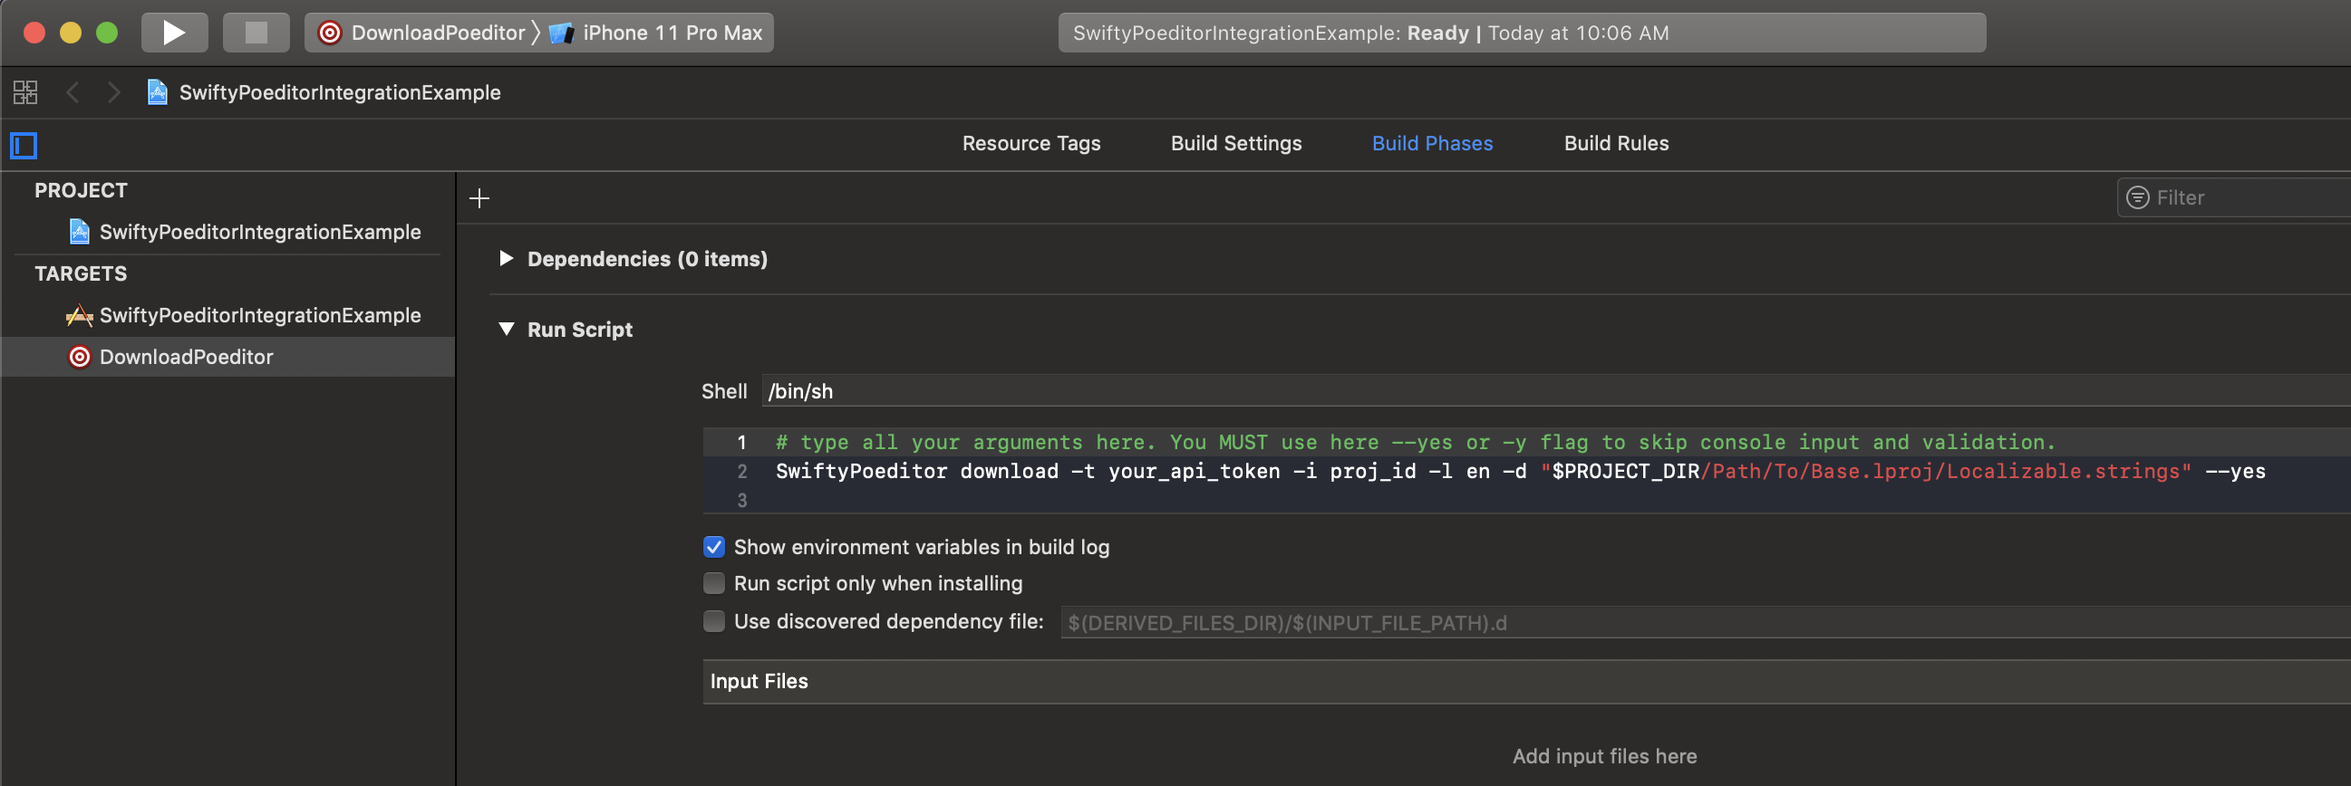
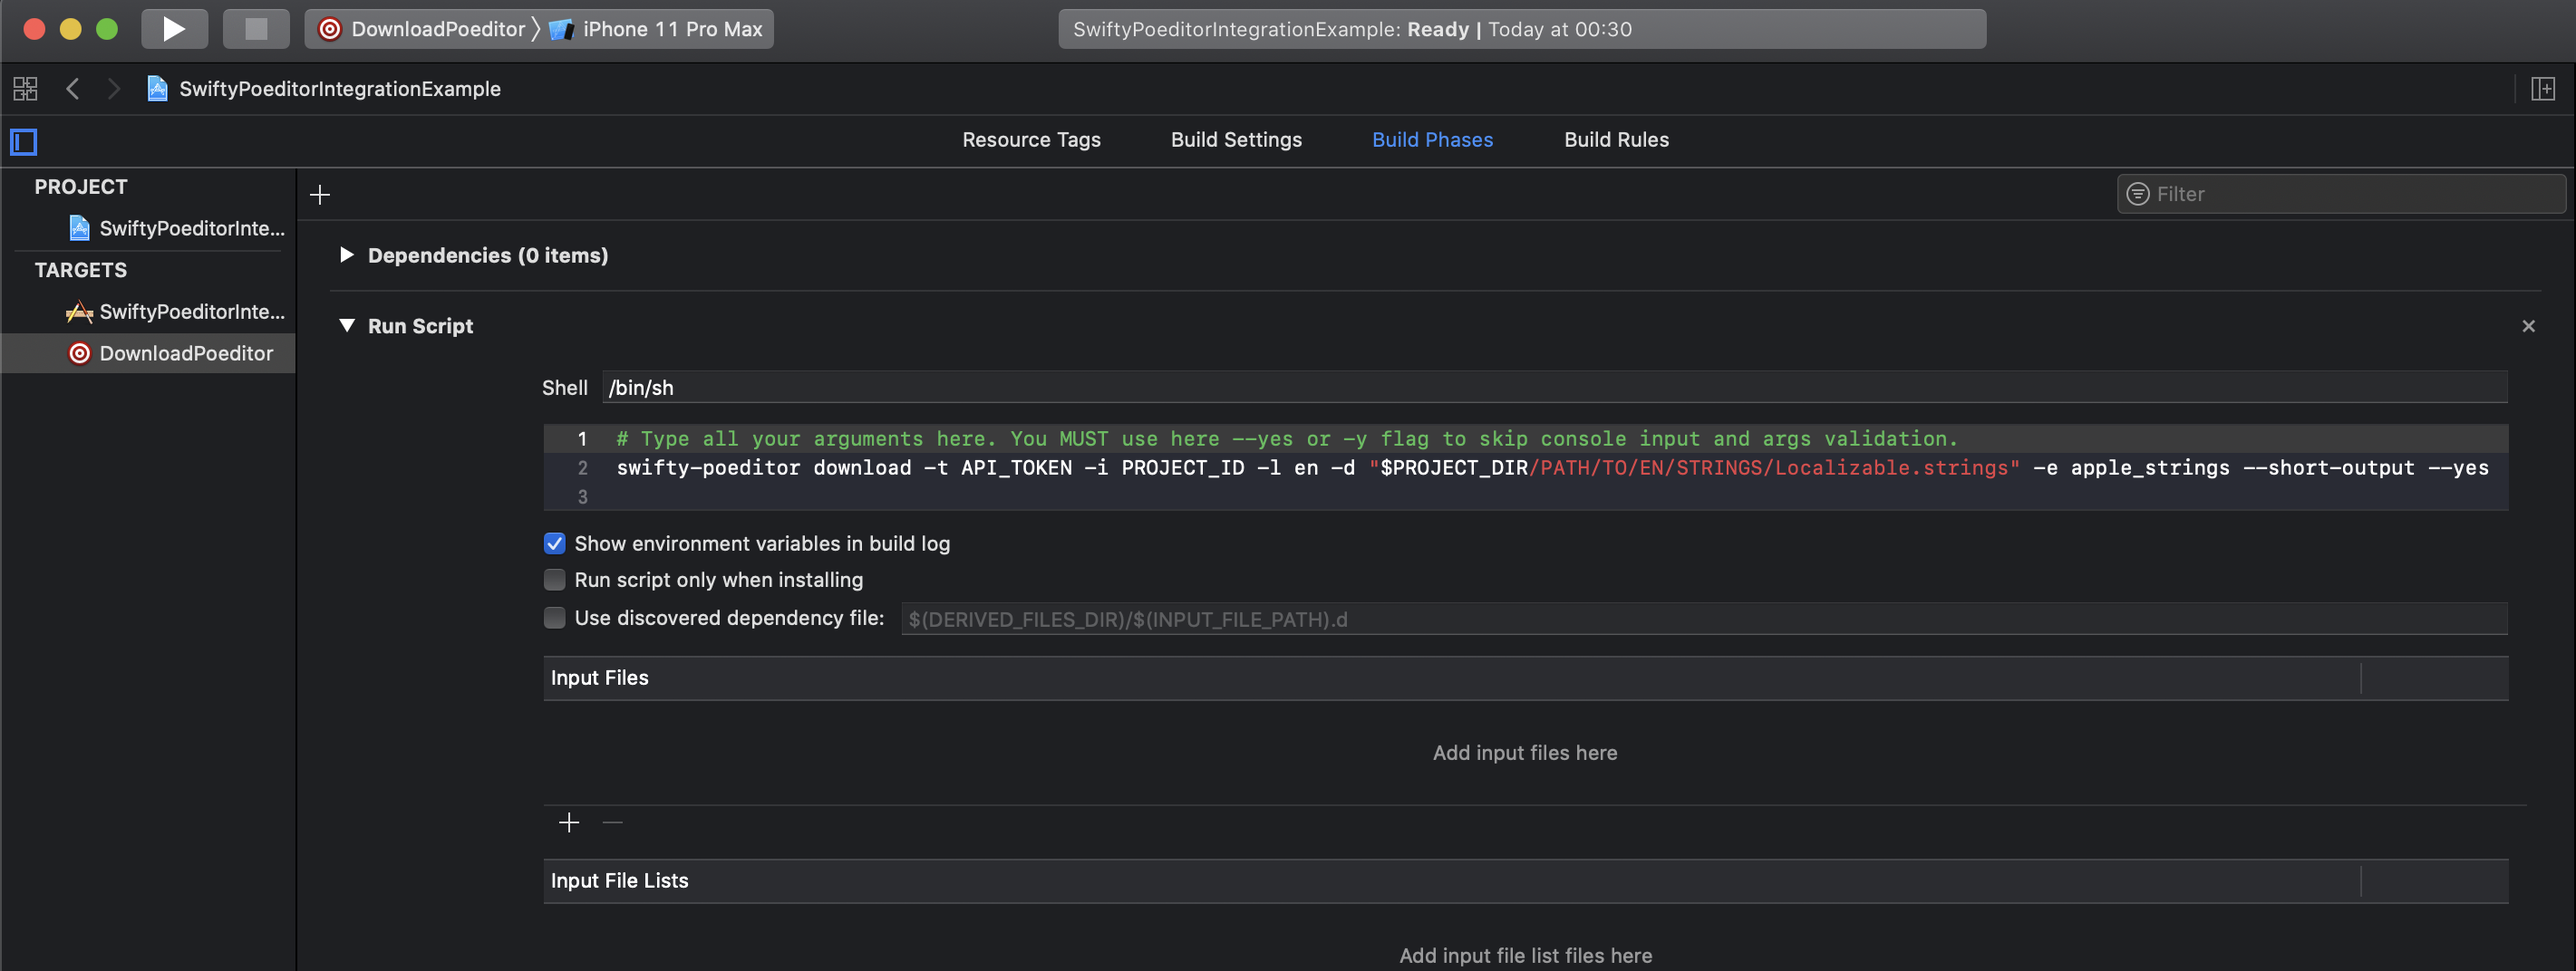
- changed README - changed some resources images - added CHANGELOG

diff --git a/README.md b/README.md
@@ -6,17 +6,42 @@ SwiftyPoeditor is a Swift command-line tool for dealing with iOS/macOS localizat
 
 ## Installation
 
+### [Homebrew](https://brew.sh/)
+
+Install Homebrew:
+
+> You can skip this step if you already have Homebrew installed.
+
+```
+/usr/bin/ruby -e "$(curl -fsSL https://raw.githubusercontent.com/Homebrew/install/master/install)"
+```
+
+Now that Homebrew is installed, we need to add SwiftyPoeditor tap:
+
+```
+brew tap codemeister64/swiftypoeditor
+```
+
+Now install SwiftyPoeditor itself:
+
+```
+brew install swiftypoeditor
+```
+
+### Manual installation
+
 1. Clone repository and open project root folder in your command line
-2. Run install script:
+2. Run command:
 
 ```bash
-./install.sh
+sudo make install
 ```
+
 Or you can compile and install tool manually:
 ```bash
 swift build -c release
 cd .build/release
-cp -f SwiftyPoeditor /usr/local/bin/SwiftyPoeditor
+cp -f swifty-poeditor /usr/local/bin/swifty-poeditor
 ```
 Now you able to run SwiftyPoeditor from anywhere on the command line.
 
@@ -30,12 +55,12 @@ Currently, SwiftyPoeditor has two commands:
 
 ```bash
 // simple usage
-SwiftyPoeditor download
-SwiftyPoeditor upload
+swifty-poeditor download
+swifty-poeditor upload
 
 // or add --help flag to show all available arguments
-SwiftyPoeditor --help
-SwiftyPoeditor download --help
+swifty-poeditor --help
+swifty-poeditor download --help
 ```
 
 ## How "download" command works
@@ -57,11 +82,23 @@ It is much more convenient when the localization keys are wrapped in some kind o
 #### The proposed solution is to use enum:
 
 ```swift
+
+fileprivate var i18nPrefixRange: Range<String.Index> = {
+    let type = I18n.self
+    let typeName = String(describing: type) + "."
+    let typeReflection: String = String(reflecting: type) + "."
+    // I have a bad news for you, if you get a crash here
+    let range = typeReflection.range(of: typeName)!
+    
+    return range
+}()
+
 protocol LocalizationKeyPathProvider {}
 
 extension LocalizationKeyPathProvider {
     var key: String {
-        return String(reflecting: self).lowercased().replacingOccurrences(of: "your_module_name.i18n.", with: "")
+        let rawKey = String(reflecting: self).lowercased()
+        return String(rawKey[i18nPrefixRange.upperBound...])
     }
     
     var localized: String {
@@ -142,25 +179,12 @@ You're ready to roll. You should now see the new scheme in the scheme selector. 
 ```bash
 # check if SwiftyPoeditor available
 # and install if not available
-FILE=/usr/local/bin/SwiftyPoeditor
-if test -f "$FILE"; then
-    echo "SwiftyPoeditor installed and can be used"
-else 
-    echo "SwiftyPoeditor not installed. Will try to install"
-
-    TEMP_PATH=./SwiftyPoeditprTemp
-
-    rm -Rf ${TEMP_PATH}
-    git clone https://github.com/oleksandrviturk/SwiftyPoeditor.git ${TEMP_PATH}
-    cd ${TEMP_PATH}
-    sh ./install.sh
-    cd -
-    rm -Rf ${TEMP_PATH}
-fi
+brew install codemeister64/swiftypoeditor/swiftypoeditor
 # run SwiftyPoeditor
+
 echo "SwiftyPoeditor start execution"
 
-SwiftyPoeditor upload --path "$PROJECT_DIR/PATH/TO/LocalizationEnum/I18n.swift" --name I18n --token API_TOKEN --id PROJECT_ID --delete-removals false --yes --short-output
+swifty-poeditor upload --path "$PROJECT_DIR/PATH/TO/LocalizationEnum/I18n.swift" --name I18n --token API_TOKEN --id PROJECT_ID --delete-removals false --yes --short-output
 
 echo "SwiftyPoeditor end execution"
 ```
@@ -168,26 +192,13 @@ echo "SwiftyPoeditor end execution"
 ```bash
 # check if SwiftyPoeditor available
 # and install if not available
-FILE=/usr/local/bin/SwiftyPoeditor
-if test -f "$FILE"; then
-    echo "SwiftyPoeditor installed and can be used"
-else 
-    echo "SwiftyPoeditor not installed. Will try to install"
-
-    TEMP_PATH=./SwiftyPoeditprTemp
-
-    rm -Rf ${TEMP_PATH}
-    git clone https://github.com/oleksandrviturk/SwiftyPoeditor.git ${TEMP_PATH}
-    cd ${TEMP_PATH}
-    sh ./install.sh
-    cd -
-    rm -Rf ${TEMP_PATH}
-fi
+brew install codemeister64/swiftypoeditor/swiftypoeditor
 # run SwiftyPoeditor
+
 echo "SwiftyPoeditor start execution"
 
-SwiftyPoeditor download -t API_TOKEN -i PROJECT_ID -l en -d "$PROJECT_DIR/PATH/TO/EN/STRINGS/Localizable.strings" -e apple_strings --yes --short-output
-SwiftyPoeditor download -t API_TOKEN -i PROJECT_ID -l ANOTHER_LANGUAGE_CODE -d "$PROJECT_DIR/PATH/TO/ANOTHER_LANGUAGE/STRINGS/Localizable.strings" -e apple_strings --yes --short-output
+swifty-poeditor download -t API_TOKEN -i PROJECT_ID -l en -d "$PROJECT_DIR/PATH/TO/EN/STRINGS/Localizable.strings" -e apple_strings --yes --short-output
+swifty-poeditor download -t API_TOKEN -i PROJECT_ID -l ANOTHER_LANGUAGE_CODE -d "$PROJECT_DIR/PATH/TO/ANOTHER_LANGUAGE/STRINGS/Localizable.strings" -e apple_strings --yes --short-output
 
 echo "SwiftyPoeditor end execution"
 ```
@@ -202,4 +213,3 @@ Pull requests are welcome. For major changes, please open an issue first to disc
 
 ## License
 This project is licensed under the [MIT](https://choosealicense.com/licenses/mit/) License - see the LICENSE.md file for details
-

diff --git a/CHANGELOG.md b/CHANGELOG.md
@@ -1,0 +1,17 @@
+# Changelog
+All notable changes to this project will be documented in this file.
+
+The format is based on [Keep a Changelog](https://keepachangelog.com/en/1.0.0/),
+and this project adheres to [Semantic Versioning](https://semver.org/spec/v2.0.0.html).
+
+## [1.0.1] - 2019-11-10
+### Added
+- homebrew support
+
+### Changed
+- removed install and uninstall scripts. This actions should be performed via make install/uninstall
+- updated README
+
+## [1.0.0] - 2019-10-23
+### Added
+- base functionality
